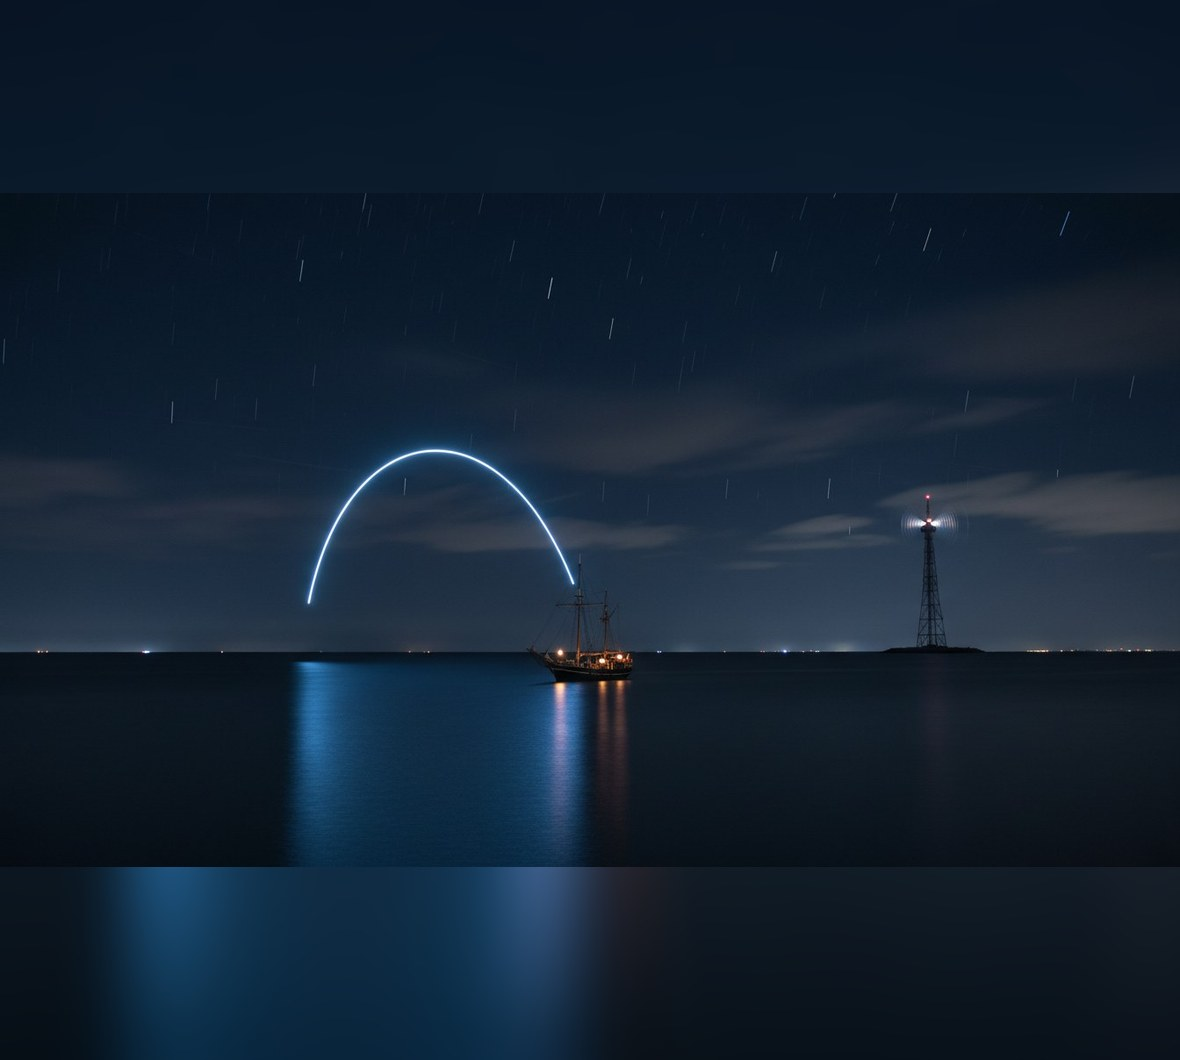
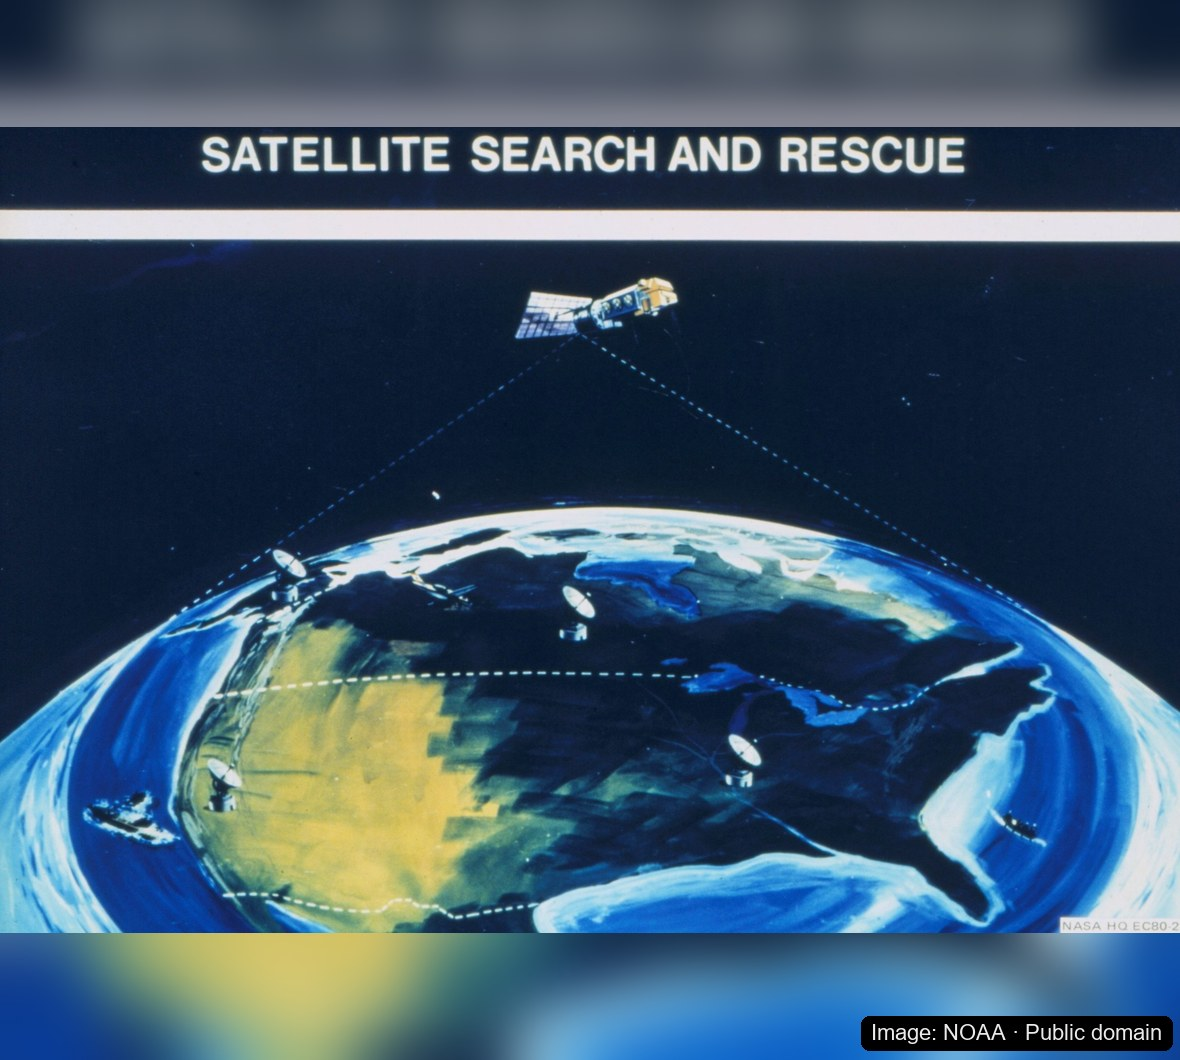
l40: marina entrance video for 4026, NOAA diagram for 4028, vo.js keeps Latin acronyms in l40

diff --git a/tools/quiz-app/vo.js b/tools/quiz-app/vo.js
@@ -131,11 +131,21 @@ const LETTER_RULES = [
   [/(?<![A-Za-z-])([A-Za-z])(?![A-Za-z-])/g, (m, l, off, str) => (KEEP_SPACED_ACRONYMS && inSpacedAcronym(str, off, m.length)) ? m : (LATIN_LETTER_HE[l.toUpperCase()] || m)],
 ];
 
+// License 40 (Alex 2026-10-20): acronyms stay Latin letters (V H F, D S C), never the Hebrew phonetic of VO_FIXES.
+let L40_LATIN = false;
+const ACRONYM_RULE = /^\\b(VHF|UTC|GPS|AIS|EPIRB|NUC|SOS|MMSI|DSC|MOB)\\b$/;
+const ACRONYM_SPACED = { VHF: 'V H F', UTC: 'U T C', GPS: 'G P S', AIS: 'A I S', MMSI: 'M M S I', DSC: 'D S C', NUC: 'N U C', SOS: 'S O S', MOB: 'M O B' };
+const ACRONYM_SPACE = /\b(VHF|UTC|GPS|AIS|MMSI|DSC|NUC|SOS|MOB)\b/g;
+
 // keepLatin=true returns DISPLAY text (letters stay "J"); default transliterates
 // them for the TTS voice.
 function applyVoFixes(text, keepLatin) {
   let t = text;
-  for (const [pat, rep] of VO_FIXES) t = t.replace(pat, rep);
+  for (const [pat, rep] of VO_FIXES) {
+    if (L40_LATIN && ACRONYM_RULE.test(pat.source)) continue;
+    t = t.replace(pat, rep);
+  }
+  if (L40_LATIN) t = t.replace(ACRONYM_SPACE, (m, a) => ACRONYM_SPACED[a] || m);
   if (!keepLatin) for (const [pat, rep] of LETTER_RULES) t = t.replace(pat, rep);
   return t.replace(/\s{2,}/g, ' ').trim();
 }
@@ -259,12 +269,13 @@ function fixAnswerLetters(t) {
 
 // Alex 2026-10-19: "לָמָה לא א'" always, never the lexicon's "לֶמָה לא" (he corrected it by hand on every render).
 function buildVoiceover(q, keepLatin) {
-  KEEP_SPACED_ACRONYMS = Number(q.license) === 40;
+  KEEP_SPACED_ACRONYMS = L40_LATIN = Number(q.license) === 40;
   try {
-    const v = buildVoiceoverRaw(q, keepLatin).replace(/לֶמָה(?= לא )/g, 'לָמָה');
+    let v = buildVoiceoverRaw(q, keepLatin).replace(/לֶמָה(?= לא )/g, 'לָמָה');
+    if (L40_LATIN) v = v.replace(/מכמ(?![א-ת"])/g, 'מכ"מ');
     return (Number(q.license) === 40 && !keepLatin) ? fixAnswerLetters(v) : v;
   }
-  finally { KEEP_SPACED_ACRONYMS = false; }
+  finally { KEEP_SPACED_ACRONYMS = L40_LATIN = false; }
 }
 
 // Dual-use module. In Node (update-question.js, render-with-html.js) it exports
